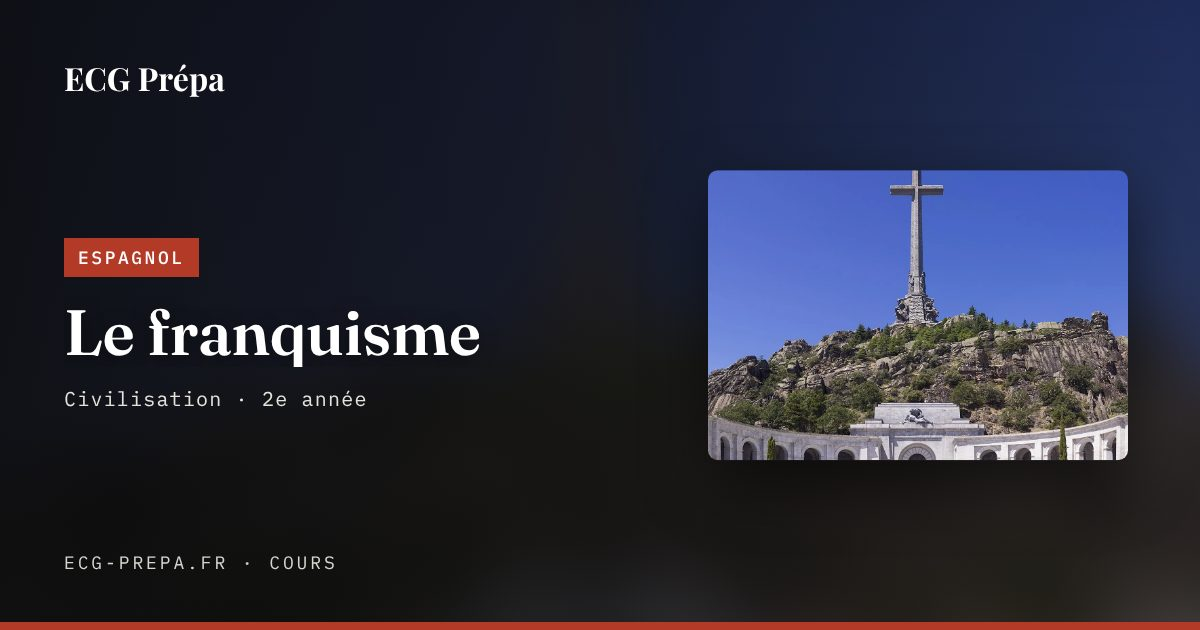
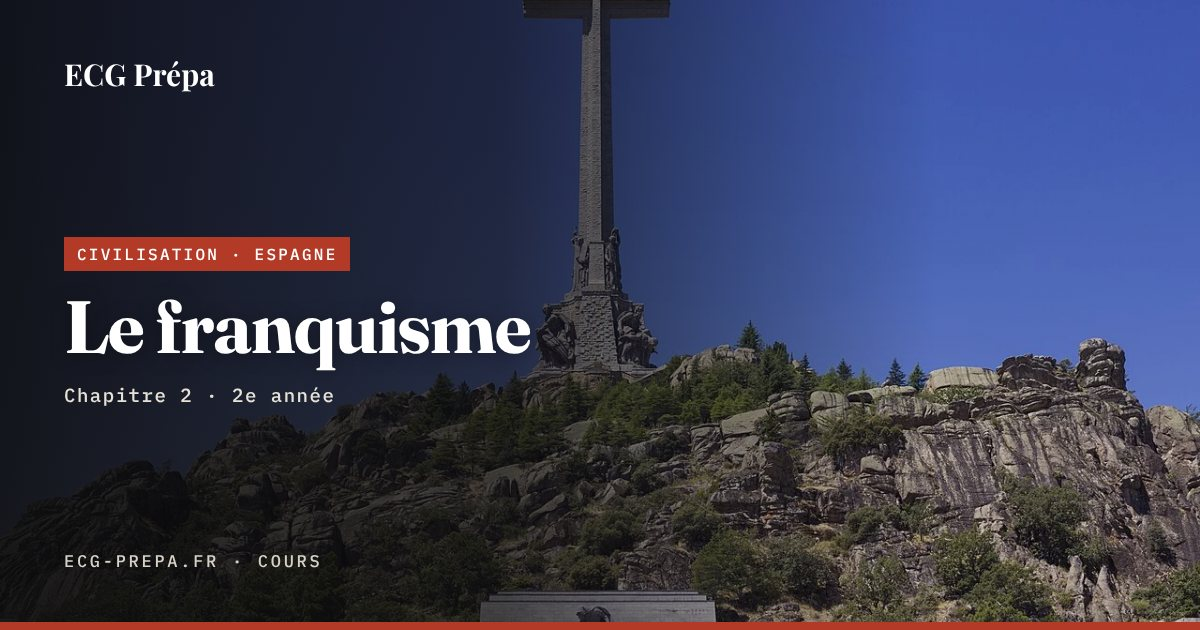
Images de partage des chapitres de civilisation : modèle « Plein cadre » (maquette B)
Claude-Session: https://claude.ai/code/session_01DWe46kL7VRZh9AGmh4Ljd2

diff --git a/deuxieme_annee/langues/anglais/royaume-uni/civi-uk-9.html b/deuxieme_annee/langues/anglais/royaume-uni/civi-uk-9.html
@@ -18,12 +18,12 @@
 <link rel="stylesheet" href="../../commun/civilisation.css">
 <meta property="og:type" content="article">
 <meta property="og:title" content="La pauvreté et les inégalités sociales">
-<meta property="og:image" content="https://ecg-prepa.fr/partage/cours/deuxieme_annee-langues-anglais-royaume-uni-civi-uk-9.jpg?v=202611071241">
+<meta property="og:image" content="https://ecg-prepa.fr/partage/cours/deuxieme_annee-langues-anglais-royaume-uni-civi-uk-9.jpg?v=202611071800">
 <meta property="og:image:width" content="1200">
 <meta property="og:image:height" content="630">
 <meta property="og:image:alt" content="La pauvreté et les inégalités sociales">
 <meta name="twitter:card" content="summary_large_image">
-<meta name="twitter:image" content="https://ecg-prepa.fr/partage/cours/deuxieme_annee-langues-anglais-royaume-uni-civi-uk-9.jpg?v=202611071241">
+<meta name="twitter:image" content="https://ecg-prepa.fr/partage/cours/deuxieme_annee-langues-anglais-royaume-uni-civi-uk-9.jpg?v=202611071800">
 <meta name="description" content="Cours de civilisation : la pauvreté et les inégalités au Royaume-Uni, des banques alimentaires à la fin du plafond de deux enfants, pour l&#x27;épreuve de langue en prépa ECG.">
 <link rel="canonical" href="https://ecg-prepa.fr/deuxieme_annee/langues/anglais/royaume-uni/civi-uk-9.html">
 <link rel="stylesheet" href="../../../../barre-section.css">

diff --git a/deuxieme_annee/langues/anglais/royaume-uni/civi-uk-11.html b/deuxieme_annee/langues/anglais/royaume-uni/civi-uk-11.html
@@ -18,12 +18,12 @@
 <link rel="stylesheet" href="../../commun/civilisation.css">
 <meta property="og:type" content="article">
 <meta property="og:title" content="Les inégalités de genre">
-<meta property="og:image" content="https://ecg-prepa.fr/partage/cours/deuxieme_annee-langues-anglais-royaume-uni-civi-uk-11.jpg?v=202611071410">
+<meta property="og:image" content="https://ecg-prepa.fr/partage/cours/deuxieme_annee-langues-anglais-royaume-uni-civi-uk-11.jpg?v=202611071800">
 <meta property="og:image:width" content="1200">
 <meta property="og:image:height" content="630">
 <meta property="og:image:alt" content="Les inégalités de genre">
 <meta name="twitter:card" content="summary_large_image">
-<meta name="twitter:image" content="https://ecg-prepa.fr/partage/cours/deuxieme_annee-langues-anglais-royaume-uni-civi-uk-11.jpg?v=202611071410">
+<meta name="twitter:image" content="https://ecg-prepa.fr/partage/cours/deuxieme_annee-langues-anglais-royaume-uni-civi-uk-11.jpg?v=202611071800">
 <meta name="description" content="Cours de civilisation : les inégalités de genre au Royaume-Uni, des suffragettes à l&#x27;écart salarial et aux violences faites aux femmes, pour l&#x27;épreuve de langue en prépa ECG.">
 <link rel="canonical" href="https://ecg-prepa.fr/deuxieme_annee/langues/anglais/royaume-uni/civi-uk-11.html">
 <link rel="stylesheet" href="../../../../barre-section.css">

diff --git a/deuxieme_annee/langues/anglais/royaume-uni/civi-uk-12.html b/deuxieme_annee/langues/anglais/royaume-uni/civi-uk-12.html
@@ -18,12 +18,12 @@
 <link rel="stylesheet" href="../../commun/civilisation.css">
 <meta property="og:type" content="article">
 <meta property="og:title" content="Le multiculturalisme britannique">
-<meta property="og:image" content="https://ecg-prepa.fr/partage/cours/deuxieme_annee-langues-anglais-royaume-uni-civi-uk-12.jpg?v=202611071402">
+<meta property="og:image" content="https://ecg-prepa.fr/partage/cours/deuxieme_annee-langues-anglais-royaume-uni-civi-uk-12.jpg?v=202611071800">
 <meta property="og:image:width" content="1200">
 <meta property="og:image:height" content="630">
 <meta property="og:image:alt" content="Le multiculturalisme britannique">
 <meta name="twitter:card" content="summary_large_image">
-<meta name="twitter:image" content="https://ecg-prepa.fr/partage/cours/deuxieme_annee-langues-anglais-royaume-uni-civi-uk-12.jpg?v=202611071402">
+<meta name="twitter:image" content="https://ecg-prepa.fr/partage/cours/deuxieme_annee-langues-anglais-royaume-uni-civi-uk-12.jpg?v=202611071800">
 <meta name="description" content="Cours de civilisation : le multiculturalisme britannique, du modèle « salad bowl » aux émeutes de 2024, pour l&#x27;épreuve de langue en prépa ECG.">
 <link rel="canonical" href="https://ecg-prepa.fr/deuxieme_annee/langues/anglais/royaume-uni/civi-uk-12.html">
 <link rel="stylesheet" href="../../../../barre-section.css">

diff --git a/deuxieme_annee/langues/anglais/royaume-uni/civi-uk-5.html b/deuxieme_annee/langues/anglais/royaume-uni/civi-uk-5.html
@@ -18,12 +18,12 @@
 <link rel="stylesheet" href="../../commun/civilisation.css">
 <meta property="og:type" content="article">
 <meta property="og:title" content="Le système de santé britannique">
-<meta property="og:image" content="https://ecg-prepa.fr/partage/cours/deuxieme_annee-langues-anglais-royaume-uni-civi-uk-5.jpg?v=202611062018">
+<meta property="og:image" content="https://ecg-prepa.fr/partage/cours/deuxieme_annee-langues-anglais-royaume-uni-civi-uk-5.jpg?v=202611071800">
 <meta property="og:image:width" content="1200">
 <meta property="og:image:height" content="630">
 <meta property="og:image:alt" content="Le système de santé britannique">
 <meta name="twitter:card" content="summary_large_image">
-<meta name="twitter:image" content="https://ecg-prepa.fr/partage/cours/deuxieme_annee-langues-anglais-royaume-uni-civi-uk-5.jpg?v=202611062018">
+<meta name="twitter:image" content="https://ecg-prepa.fr/partage/cours/deuxieme_annee-langues-anglais-royaume-uni-civi-uk-5.jpg?v=202611071800">
 <meta name="description" content="Cours de civilisation : Le système de santé britannique. Le NHS, ses principes, sa crise et sa refondation pour l&#x27;épreuve de langue en prépa ECG.">
 <link rel="canonical" href="https://ecg-prepa.fr/deuxieme_annee/langues/anglais/royaume-uni/civi-uk-5.html">
 <link rel="stylesheet" href="../../../../barre-section.css">

diff --git a/deuxieme_annee/langues/anglais/royaume-uni/civi-uk-8.html b/deuxieme_annee/langues/anglais/royaume-uni/civi-uk-8.html
@@ -18,12 +18,12 @@
 <link rel="stylesheet" href="../../commun/civilisation.css">
 <meta property="og:type" content="article">
 <meta property="og:title" content="La Special Relationship">
-<meta property="og:image" content="https://ecg-prepa.fr/partage/cours/deuxieme_annee-langues-anglais-royaume-uni-civi-uk-8.jpg?v=202611071410">
+<meta property="og:image" content="https://ecg-prepa.fr/partage/cours/deuxieme_annee-langues-anglais-royaume-uni-civi-uk-8.jpg?v=202611071800">
 <meta property="og:image:width" content="1200">
 <meta property="og:image:height" content="630">
 <meta property="og:image:alt" content="La Special Relationship">
 <meta name="twitter:card" content="summary_large_image">
-<meta name="twitter:image" content="https://ecg-prepa.fr/partage/cours/deuxieme_annee-langues-anglais-royaume-uni-civi-uk-8.jpg?v=202611071410">
+<meta name="twitter:image" content="https://ecg-prepa.fr/partage/cours/deuxieme_annee-langues-anglais-royaume-uni-civi-uk-8.jpg?v=202611071800">
 <meta name="description" content="Cours de civilisation : la Special Relationship et la politique étrangère britannique, de Churchill à la crise de 2026, pour l&#x27;épreuve de langue en prépa ECG.">
 <link rel="canonical" href="https://ecg-prepa.fr/deuxieme_annee/langues/anglais/royaume-uni/civi-uk-8.html">
 <link rel="stylesheet" href="../../../../barre-section.css">

diff --git a/deuxieme_annee/langues/anglais/royaume-uni/civi-uk-10.html b/deuxieme_annee/langues/anglais/royaume-uni/civi-uk-10.html
@@ -18,12 +18,12 @@
 <link rel="stylesheet" href="../../commun/civilisation.css">
 <meta property="og:type" content="article">
 <meta property="og:title" content="L&#x27;immigration">
-<meta property="og:image" content="https://ecg-prepa.fr/partage/cours/deuxieme_annee-langues-anglais-royaume-uni-civi-uk-10.jpg?v=202611071314">
+<meta property="og:image" content="https://ecg-prepa.fr/partage/cours/deuxieme_annee-langues-anglais-royaume-uni-civi-uk-10.jpg?v=202611071800">
 <meta property="og:image:width" content="1200">
 <meta property="og:image:height" content="630">
 <meta property="og:image:alt" content="L&#x27;immigration">
 <meta name="twitter:card" content="summary_large_image">
-<meta name="twitter:image" content="https://ecg-prepa.fr/partage/cours/deuxieme_annee-langues-anglais-royaume-uni-civi-uk-10.jpg?v=202611071314">
+<meta name="twitter:image" content="https://ecg-prepa.fr/partage/cours/deuxieme_annee-langues-anglais-royaume-uni-civi-uk-10.jpg?v=202611071800">
 <meta name="description" content="Cours de civilisation : l&#x27;immigration au Royaume-Uni, du Windrush aux small boats et à la réforme de l&#x27;asile, pour l&#x27;épreuve de langue en prépa ECG.">
 <link rel="canonical" href="https://ecg-prepa.fr/deuxieme_annee/langues/anglais/royaume-uni/civi-uk-10.html">
 <link rel="stylesheet" href="../../../../barre-section.css">

diff --git a/deuxieme_annee/langues/anglais/royaume-uni/civi-uk-2.html b/deuxieme_annee/langues/anglais/royaume-uni/civi-uk-2.html
@@ -19,12 +19,12 @@
 <link rel="stylesheet" href="../../commun/civilisation.css">
 <meta property="og:type" content="article">
 <meta property="og:title" content="Le système politique britannique">
-<meta property="og:image" content="https://ecg-prepa.fr/partage/cours/deuxieme_annee-langues-anglais-royaume-uni-civi-uk-2.jpg?v=202610202049">
+<meta property="og:image" content="https://ecg-prepa.fr/partage/cours/deuxieme_annee-langues-anglais-royaume-uni-civi-uk-2.jpg?v=202611071800">
 <meta property="og:image:width" content="1200">
 <meta property="og:image:height" content="630">
 <meta property="og:image:alt" content="Le système politique britannique">
 <meta name="twitter:card" content="summary_large_image">
-<meta name="twitter:image" content="https://ecg-prepa.fr/partage/cours/deuxieme_annee-langues-anglais-royaume-uni-civi-uk-2.jpg?v=202610202049">
+<meta name="twitter:image" content="https://ecg-prepa.fr/partage/cours/deuxieme_annee-langues-anglais-royaume-uni-civi-uk-2.jpg?v=202611071800">
 <meta name="description" content="Cours de civilisation : Le système politique britannique. Chronologie, acteurs clés et analyse pour l&#x27;épreuve de langue en prépa ECG.">
 <link rel="canonical" href="https://ecg-prepa.fr/deuxieme_annee/langues/anglais/royaume-uni/civi-uk-2.html">
 <link rel="stylesheet" href="../../../../barre-section.css">

diff --git a/deuxieme_annee/langues/anglais/royaume-uni/civi-uk-1.html b/deuxieme_annee/langues/anglais/royaume-uni/civi-uk-1.html
@@ -19,12 +19,12 @@
 <link rel="stylesheet" href="../../commun/civilisation.css">
 <meta property="og:type" content="article">
 <meta property="og:title" content="L&#x27;histoire du Royaume-Uni">
-<meta property="og:image" content="https://ecg-prepa.fr/partage/cours/deuxieme_annee-langues-anglais-royaume-uni-civi-uk-1.jpg?v=202610202049">
+<meta property="og:image" content="https://ecg-prepa.fr/partage/cours/deuxieme_annee-langues-anglais-royaume-uni-civi-uk-1.jpg?v=202611071800">
 <meta property="og:image:width" content="1200">
 <meta property="og:image:height" content="630">
 <meta property="og:image:alt" content="L&#x27;histoire du Royaume-Uni">
 <meta name="twitter:card" content="summary_large_image">
-<meta name="twitter:image" content="https://ecg-prepa.fr/partage/cours/deuxieme_annee-langues-anglais-royaume-uni-civi-uk-1.jpg?v=202610202049">
+<meta name="twitter:image" content="https://ecg-prepa.fr/partage/cours/deuxieme_annee-langues-anglais-royaume-uni-civi-uk-1.jpg?v=202611071800">
 <meta name="description" content="Cours de civilisation : L&#x27;histoire du Royaume-Uni. Chronologie, acteurs clés et analyse pour l&#x27;épreuve de langue en prépa ECG.">
 <link rel="canonical" href="https://ecg-prepa.fr/deuxieme_annee/langues/anglais/royaume-uni/civi-uk-1.html">
 <link rel="stylesheet" href="../../../../barre-section.css">

diff --git a/deuxieme_annee/langues/espagnol/Espagne/civi-esp-1.html b/deuxieme_annee/langues/espagnol/Espagne/civi-esp-1.html
@@ -19,12 +19,12 @@
 <link rel="stylesheet" href="../../commun/civilisation.css">
 <meta property="og:type" content="article">
 <meta property="og:title" content="L&#x27;histoire de l&#x27;Espagne">
-<meta property="og:image" content="https://ecg-prepa.fr/partage/cours/deuxieme_annee-langues-espagnol-Espagne-civi-esp-1.jpg?v=202611062054">
+<meta property="og:image" content="https://ecg-prepa.fr/partage/cours/deuxieme_annee-langues-espagnol-Espagne-civi-esp-1.jpg?v=202611071800">
 <meta property="og:image:width" content="1200">
 <meta property="og:image:height" content="630">
 <meta property="og:image:alt" content="L&#x27;histoire de l&#x27;Espagne">
 <meta name="twitter:card" content="summary_large_image">
-<meta name="twitter:image" content="https://ecg-prepa.fr/partage/cours/deuxieme_annee-langues-espagnol-Espagne-civi-esp-1.jpg?v=202611062054">
+<meta name="twitter:image" content="https://ecg-prepa.fr/partage/cours/deuxieme_annee-langues-espagnol-Espagne-civi-esp-1.jpg?v=202611071800">
 <meta name="description" content="Cours de civilisation : L&#x27;histoire de l&#x27;Espagne. Chronologie, acteurs clés et analyse pour l&#x27;épreuve de langue en prépa ECG.">
 <link rel="canonical" href="https://ecg-prepa.fr/deuxieme_annee/langues/espagnol/Espagne/civi-esp-1.html">
 <link rel="stylesheet" href="../../../../barre-section.css">

diff --git a/deuxieme_annee/langues/anglais/royaume-uni/civi-uk-6.html b/deuxieme_annee/langues/anglais/royaume-uni/civi-uk-6.html
@@ -18,12 +18,12 @@
 <link rel="stylesheet" href="../../commun/civilisation.css">
 <meta property="og:type" content="article">
 <meta property="og:title" content="Le Welfare State">
-<meta property="og:image" content="https://ecg-prepa.fr/partage/cours/deuxieme_annee-langues-anglais-royaume-uni-civi-uk-6.jpg?v=202611062130">
+<meta property="og:image" content="https://ecg-prepa.fr/partage/cours/deuxieme_annee-langues-anglais-royaume-uni-civi-uk-6.jpg?v=202611071800">
 <meta property="og:image:width" content="1200">
 <meta property="og:image:height" content="630">
 <meta property="og:image:alt" content="Le Welfare State">
 <meta name="twitter:card" content="summary_large_image">
-<meta name="twitter:image" content="https://ecg-prepa.fr/partage/cours/deuxieme_annee-langues-anglais-royaume-uni-civi-uk-6.jpg?v=202611062130">
+<meta name="twitter:image" content="https://ecg-prepa.fr/partage/cours/deuxieme_annee-langues-anglais-royaume-uni-civi-uk-6.jpg?v=202611071800">
 <meta name="description" content="Cours de civilisation : Le Welfare State. De Beveridge à l&#x27;Universal Credit et aux réformes de 2025-2026 pour l&#x27;épreuve de langue en prépa ECG.">
 <link rel="canonical" href="https://ecg-prepa.fr/deuxieme_annee/langues/anglais/royaume-uni/civi-uk-6.html">
 <link rel="stylesheet" href="../../../../barre-section.css">

diff --git a/deuxieme_annee/langues/espagnol/Espagne/civi-esp-8.html b/deuxieme_annee/langues/espagnol/Espagne/civi-esp-8.html
@@ -19,12 +19,12 @@
 <link rel="stylesheet" href="../../commun/civilisation.css">
 <meta property="og:type" content="article">
 <meta property="og:title" content="Le Pays Basque et l&#x27;ETA">
-<meta property="og:image" content="https://ecg-prepa.fr/partage/cours/deuxieme_annee-langues-espagnol-Espagne-civi-esp-8.jpg?v=202611071555">
+<meta property="og:image" content="https://ecg-prepa.fr/partage/cours/deuxieme_annee-langues-espagnol-Espagne-civi-esp-8.jpg?v=202611071800">
 <meta property="og:image:width" content="1200">
 <meta property="og:image:height" content="630">
 <meta property="og:image:alt" content="Le Pays Basque et l&#x27;ETA">
 <meta name="twitter:card" content="summary_large_image">
-<meta name="twitter:image" content="https://ecg-prepa.fr/partage/cours/deuxieme_annee-langues-espagnol-Espagne-civi-esp-8.jpg?v=202611071555">
+<meta name="twitter:image" content="https://ecg-prepa.fr/partage/cours/deuxieme_annee-langues-espagnol-Espagne-civi-esp-8.jpg?v=202611071800">
 <meta name="description" content="Cours de civilisation : Le Pays Basque et l&#x27;ETA. Chronologie, acteurs clés et analyse pour l&#x27;épreuve de langue en prépa ECG.">
 <link rel="canonical" href="https://ecg-prepa.fr/deuxieme_annee/langues/espagnol/Espagne/civi-esp-8.html">
 <link rel="stylesheet" href="../../../../barre-section.css">

diff --git a/deuxieme_annee/langues/espagnol/Espagne/civi-esp-3.html b/deuxieme_annee/langues/espagnol/Espagne/civi-esp-3.html
@@ -19,12 +19,12 @@
 <link rel="stylesheet" href="../../commun/civilisation.css">
 <meta property="og:type" content="article">
 <meta property="og:title" content="La Transition démocratique">
-<meta property="og:image" content="https://ecg-prepa.fr/partage/cours/deuxieme_annee-langues-espagnol-Espagne-civi-esp-3.jpg?v=202611070601">
+<meta property="og:image" content="https://ecg-prepa.fr/partage/cours/deuxieme_annee-langues-espagnol-Espagne-civi-esp-3.jpg?v=202611071800">
 <meta property="og:image:width" content="1200">
 <meta property="og:image:height" content="630">
 <meta property="og:image:alt" content="La Transition démocratique">
 <meta name="twitter:card" content="summary_large_image">
-<meta name="twitter:image" content="https://ecg-prepa.fr/partage/cours/deuxieme_annee-langues-espagnol-Espagne-civi-esp-3.jpg?v=202611070601">
+<meta name="twitter:image" content="https://ecg-prepa.fr/partage/cours/deuxieme_annee-langues-espagnol-Espagne-civi-esp-3.jpg?v=202611071800">
 <meta name="description" content="Cours de civilisation : La Transition démocratique. Chronologie, acteurs clés et analyse pour l&#x27;épreuve de langue en prépa ECG.">
 <link rel="canonical" href="https://ecg-prepa.fr/deuxieme_annee/langues/espagnol/Espagne/civi-esp-3.html">
 <link rel="stylesheet" href="../../../../barre-section.css">
